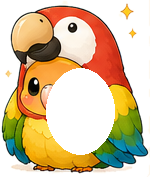
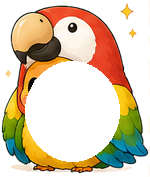
Fix sunflower/parrot costume bugs and low-res wolf enemy sprite
theme_sunflower's scale/offsetY were only re-verified at 44/40/32px
after the last fix, never the 48px BirdRosterModal header size where
it actually still covered the wearer's eyes on every bird. Shrunk and
repositioned it, then re-checked all 12 costumes across all 4 birds at
all 4 real render sizes this time.

costume_parrot's face-hole mask (from the kigurumi restoration) missed
part of the baked-in bird's eye/cheek on its left edge, so any other
bird wearing it showed that leftover fragment mixed with its own face.
Widened the mask to fully clear it.

Also re-cropped enemy_wolf.png at 2x resolution — it was roughly half
the linear resolution of the other two enemy sprites since its source
reference sheet packs more columns into the same width. Couldn't
conclusively reproduce the reported clipping through code review alone
(resizeMode="contain" doesn't crop), but this closes a real quality gap
found while investigating.

Changed region(s): [[0.16, 0.339, 0.8, 0.9322]]

diff --git a/src/data/cosmetics.ts b/src/data/cosmetics.ts
@@ -82,6 +82,24 @@ import { CosmeticCategory } from '../types';
 // shows the same bird-dependent misfit, this is why: there's no per-bird
 // override in this data shape, only a single compromise value tuned to
 // clear the biggest head in the roster.
+//
+// Correction #5 (real-device report: theme_sunflower still covering Haku's
+// eyes; costume_parrot still showing a fragment of the baked-in face on
+// real hardware): two more bugs slipped through the previous verification
+// pass because it never checked the 48px size BirdRosterModal's header
+// avatar actually renders at (only 44/40/32 had been re-checked) — at 48px
+// theme_sunflower's scale=0.85/offsetY=-0.32 genuinely did sit low enough
+// to cover the eyes on every bird, it just hadn't been looked at closely
+// enough at any size to notice. Shrunk it to scale=0.65/offsetY=-0.394 so
+// its (fully opaque, no-face-hole) brim clears every bird's eye-line with
+// only its petal tips clipping at the top — same trade-off precedent as
+// Correction #2. Separately, costume_parrot's face-hole mask (Correction
+// #4) was positioned too far right/down, leaving the baked-in bird's own
+// eye and cheek untouched on the left edge of the hole — any other bird
+// wearing it showed that fragment instead of (or blended with) its own
+// face. Widened the mask ellipse to fully cover the original face. Both
+// re-verified at all 4 real render sizes (48/44/40/32) across all 4 birds
+// this time, not just the sizes checked previously.
 export interface CosmeticItemDef {
   id: string;
   name: string;
@@ -224,10 +242,10 @@ export const COSMETIC_ITEMS: CosmeticItemDef[] = [
     name: 'ひまわり',
     category: 'theme',
     imageAsset: require('../../assets/cosmetics/theme_sunflower.png'),
-    scale: 0.85,
+    scale: 0.65,
     aspect: 0.5652,
     offsetX: 0,
-    offsetY: -0.32,
+    offsetY: -0.394,
     unlockedByDefault: false,
   },
   {

diff --git a/src/data/fieldImages.ts b/src/data/fieldImages.ts
@@ -57,6 +57,14 @@ export const FIELD_OBJECT_AFTER_IMAGES: Partial<Record<MaterialId, number>> = {
 // and コウモリ come from the reference sheet's 森/鉱山エリア, オオカミ from a
 // second reference sheet's 森エリア (the first sheet has no wolf-like
 // enemy at all).
+//
+// Real-device report: オオカミ rendered visibly cut off in the field. Its
+// source crop (enemy_wolf.png) was only 53x70 — roughly half the linear
+// resolution of enemy_bat.png/enemy_slime.png (~106-114px) — because the
+// second reference sheet packs more columns into the same width, so its
+// character art is natively smaller. Re-extracted at 2x (LANCZOS upscale
+// during the crop, not a naive stretch of the old file) so it's no longer
+// the noticeably lower-fidelity/smaller-margin one of the three.
 export const ENEMY_IMAGES: Record<string, number> = {
   スライム: require('../../assets/field/enemy_slime.png'),
   コウモリ: require('../../assets/field/enemy_bat.png'),

diff --git a/README.md b/README.md
@@ -87,6 +87,8 @@
 
 31. **フィールドオブジェクト・敵モンスターの見た目差し替え**: 依頼で提供された2枚の参考シートから、採取ポイント(木・岩・鉱石・薬草・木の実・キノコ・釣りポイント・遺跡のかけら)と敵(スライム・コウモリ・オオカミ)の絵文字表示を専用イラストに差し替えた(`assets/field/`、建物・コスチュームと同じ背景除去+バウンディングボックストリムのPythonパイプラインを流用)。列の境界は各セルのラベル文字(黒に近い画素)の連結成分を検出してその中心同士の中点で区切る方式にしたところ——見た目でセル境界を目分量で拾う一次試行では、セルの背景カード自体がほぼ透明に近い色でほとんど識別できず、隣接列の一部を誤って切り出してしまう事故(石の欠片が隣の岩の画像に混入する、キノコの列に釣りポイントの池が入り込む、等)が複数件発生したため、より機械的なこの方式に切り替えて解消した。14種類ある採取素材(`MaterialId`)のうち、直接対応するイラストがあったのは8種(wood/ore/gem/herb/berry/mushroom/fish/relic)——coal/magicStoneはそれぞれ見た目の近い岩(小さな石)・水晶(鉱石と同じ画像)を代用し、feather/pearl/waterweed/oldCoinは対応するイラストが参考シートに存在しなかったため絵文字のまま据え置いた(ただし据え置いた4種についても、既存コードが実は`resource === 'wood' ? 🌳 : resource === 'ore' ? 🪨 : 🍄`という3分岐で「それ以外全部キノコ絵文字」というバグを抱えていたため、この4種は`data/materials.ts`の`MATERIAL_ICON`——既に全素材分揃っている絵文字マップ——にフォールバックする形にして、少なくとも素材ごとに正しい絵文字が出るよう合わせて直した)。敵は`EnemyDef.name`をキーに1種1画像で対応させ、依頼の「厳密な1対1対応である必要はない」という許容に沿って、スライム・コウモリはシートv1(森・鉱山エリア)から、オオカミはシートv1に狼系の敵が存在しなかったため2枚目の参考シートv2(森エリア)から採用した。採取後の見た目変化(切り株・小さな岩・採掘あと等)も差し替えたが、これは差し替え対象というより新規追加に近い——既存の`RockSprite`は`collected`が立った瞬間に`return null`していたため、フェードアウト用に組んであった`Animated.timing`は一度も実際には描画されずに終わる死んだコードになっており、実質「収穫後は何も表示されず、次に湧くまで単なる空き地になる」という状態だった。これを、収穫後は対応する「あと」画像(またはフォールバック絵文字)がポップインして表示され続け、リスポーンを待つ間もその場に何かがある見た目になるよう修正した(coal/magicStoneの「あと」画像もore/gemのものを代用)。サイズは256×256基準の元画像を、実際のマップ表示サイズ(40px程度)へ`resizeMode="contain"`で縮小——アスペクト比が木(縦長)から釣りポイント(横長の池)まで様々なため、全種を実サイズで並べた確認画像で潰れ・伸びがないことを目視確認した。
 
+32. **コスチューム再発バグ2件 + オオカミの表示欠け**: ①「ひまわり」がハクの目にかぶって見える実機報告——前回(item 30 ②)の検証が実は`BirdRosterModal`ヘッダーの実サイズ(48px)を確認しておらず、44/40/32pxだけで「大丈夫」と判断していたのが原因だった。48pxで見ると、ひまわり(顔の穴がない帽子型で、scale=0.85/offsetY=-0.32)が実際には全鳥で目にかぶるほど低い位置にあることが判明——scale=0.65/offsetY=-0.394に縮小・再調整し、4羽×48/44/40/32pxの全サイズで目が隠れないことを再確認した。②「おおきなインコ」に、前回(item 30 ①)着ぐるみへ作り直した際の顔穴マスクが右下寄りに小さすぎて、左側に元の鳥(ビビ)の目・頬・くちばしの一部がそのまま残ってしまっていたバグ——実機で他の鳥(ハク)が着ると、ハク自身の顔とビビの目が重なって表示されていた。マスクの楕円を左方向に広げて焼き込み跡を完全に除去し、4羽で確認して解消した。③フィールド上のオオカミの敵アイコンが表示枠内で欠けて見える実機報告——原因を特定しきれてはいないが(`resizeMode="contain"`は本来クロップを起こさない設定のため、コード上の直接原因は見つからなかった)、調査の過程でオオカミの画像素材(`enemy_wolf.png`)がスライム・コウモリ(共に約106〜114px四方)に比べて明らかに解像度が低い(53×70px)ことが判明した——2枚目の参考シートは1枚目より多くの列を同じ幅に詰め込んでいるため、キャラクター1体あたりの元絵が小さいことが原因。切り出し時に2倍拡大(LANCZOS)して他の敵と同等の解像度に揃えた。表示崩れの直接原因かは断定できないため、直っていなければ追加のスクリーンショットをお願いしたい。
+
 ## セットアップ(PCで実機のiPhone確認)
 
 Expo Go を使えば、Xcode も Apple Developer 登録も不要でiPhone実機に反映して試せます。
